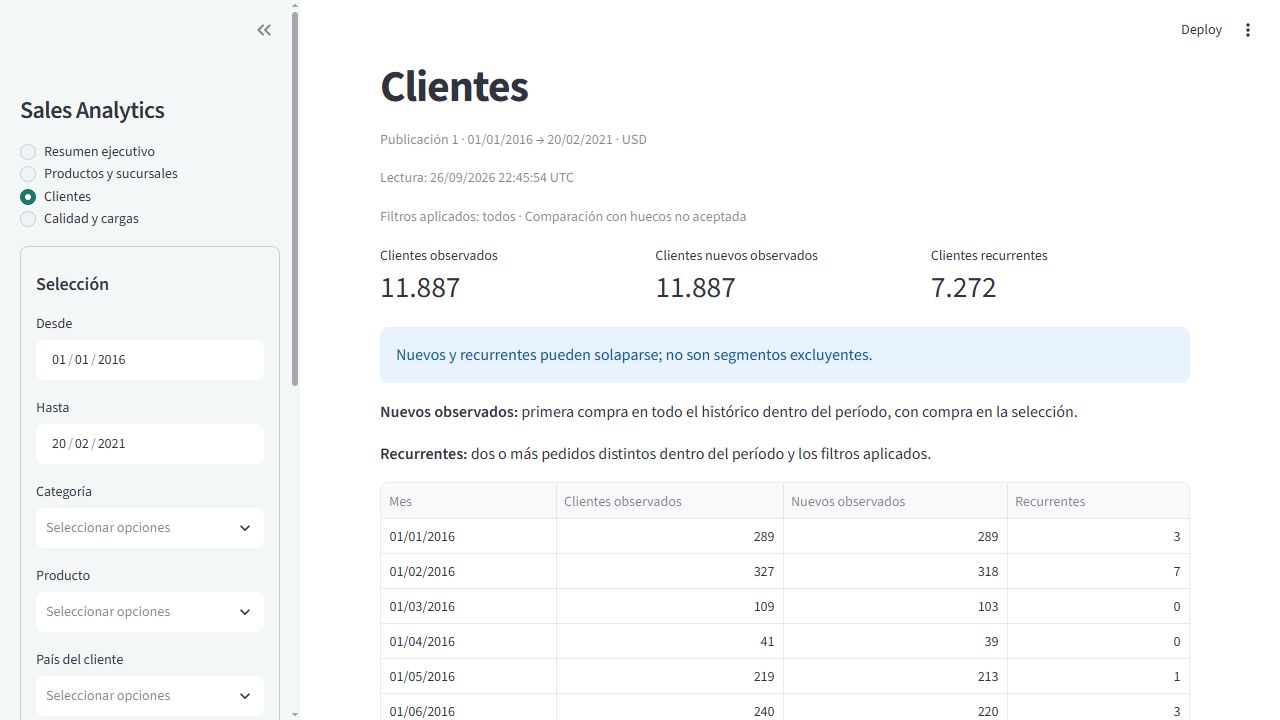
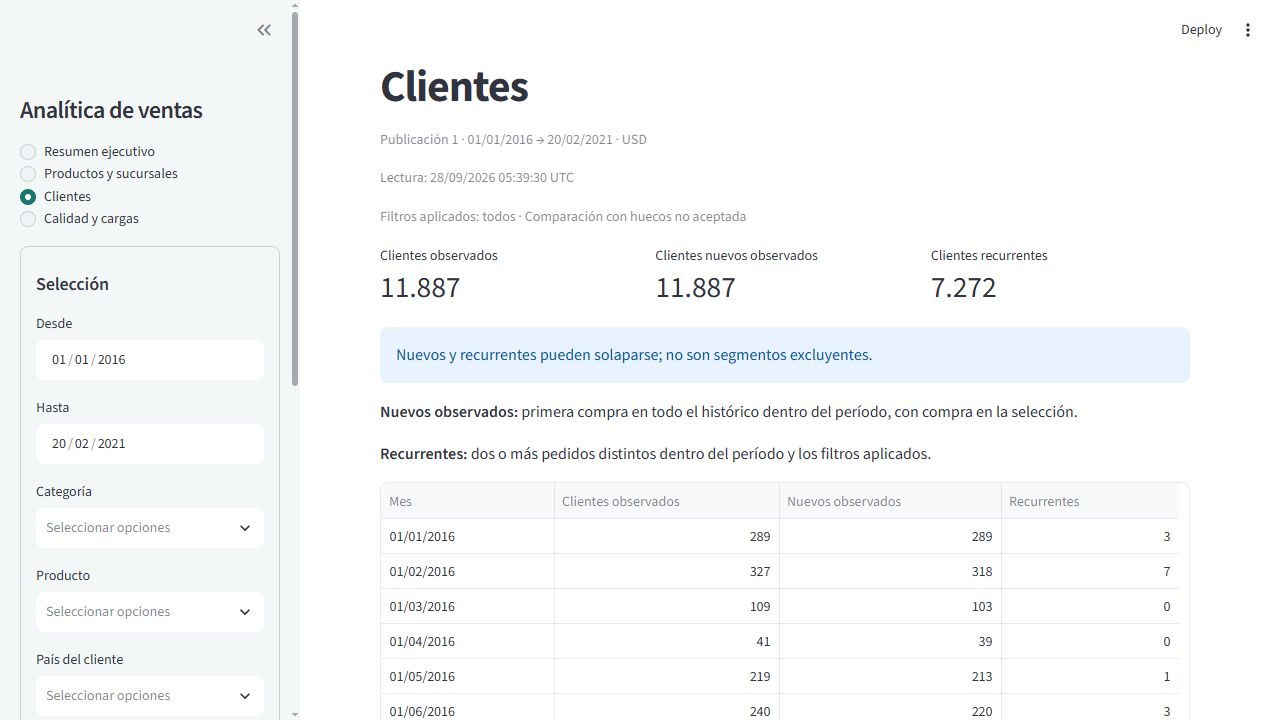
docs: presentar la plataforma y el panel en español

diff --git a/src/sales_analytics/dashboard.py b/src/sales_analytics/dashboard.py
@@ -281,7 +281,7 @@ def quality(bundle: dict) -> None:
 
 
 def main() -> None:
-    st.set_page_config(page_title="Sales Analytics", page_icon=None, layout="wide")
+    st.set_page_config(page_title="Analítica de ventas", page_icon=None, layout="wide")
     st.html("""<style>
         .stMainBlockContainer {max-width: 1260px; padding-top: 2.5rem;}
         h1 {letter-spacing: -.025em;} h2 {margin-top: 1rem;}
@@ -290,7 +290,7 @@ def main() -> None:
         [data-testid="stSidebar"] {background: #f4f7f7;}
         ::selection {background: #bde7df; color: #173b38;}
         </style>""")
-    st.sidebar.title("Sales Analytics")
+    st.sidebar.title("Analítica de ventas")
     page = st.sidebar.radio("Análisis", PAGES, label_visibility="collapsed")
     selected = {key: st.session_state.get(key) or None for key in FILTER_LABELS}
     try:

diff --git a/tests/ui/test_dashboard.py b/tests/ui/test_dashboard.py
@@ -158,6 +158,7 @@ def test_failed_refresh_keeps_old_labels(app, monkeypatch):
 
 
 def test_spanish_controls_and_dates_preserve_timestamp(app, bundle):
+    assert app.sidebar.title[0].value == "Analítica de ventas"
     assert all(w.proto.placeholder == "Seleccionar opciones" for w in app.multiselect)
     assert all(w.proto.format == "DD/MM/YYYY" for w in app.date_input)
     assert any("25/09/2026 00:00:00 UTC" in v.value for v in app.caption)

diff --git a/README.md b/README.md
@@ -1,4 +1,4 @@
-# Plataforma Analitica de Ventas
+# Plataforma Analítica de Ventas
 
 Plataforma local para convertir archivos de ventas de un comercio de electrónica en indicadores reproducibles. Conserva el origen, distingue rechazos de advertencias y permite consultar una publicación consistente desde Streamlit, incluso mientras otro proceso publica datos.
 
@@ -54,7 +54,7 @@ Snapshot de referencia, sin convertir sus cifras en restricciones de futuros lot
 ## Estructura
 
 ```text
-sales-analytics-platform/
+plataforma-analitica-de-ventas/
 ├── AGENTS.md
 ├── README.md
 ├── pyproject.toml                 # única declaración editable de dependencias

diff --git a/docs/data_model.md b/docs/data_model.md
@@ -1,4 +1,4 @@
-# Modelo de datos — Sales Analytics Platform
+# Modelo de datos — Plataforma Analítica de Ventas
 
 **Estado: diseño documental aprobado; implementación no autorizada.** D1–D6 y el contrato de lectura fueron aprobados por el usuario.
 Base: [perfil comprobado](data_profile.md), [diccionario](data_dictionary.md) y [reglas aprobadas](business_rules.md). Los dos primeros se conservan como evidencia de la revisión inicial: sus menciones de aprobación pendiente quedan resueltas por las decisiones vigentes de business_rules.md.

diff --git a/docs/business_rules.md b/docs/business_rules.md
@@ -1,4 +1,4 @@
-# Reglas de negocio y calidad — Sales Analytics Platform
+# Reglas de negocio y calidad — Plataforma Analítica de Ventas
 
 **Estado: diseño documental aprobado; implementación no autorizada.** D1–D6, alcance del MVP y contrato de lectura aprobados por el usuario.
 Evidencia: [data_profile.md](data_profile.md). Campos de origen: [data_dictionary.md](data_dictionary.md). Estructura: [data_model.md](data_model.md). Operación y lectura: [architecture.md](architecture.md).

diff --git a/docs/implementation_plan.md b/docs/implementation_plan.md
@@ -1,4 +1,4 @@
-# Plan de implementación incremental — Sales Analytics Platform
+# Plan de implementación incremental — Plataforma Analítica de Ventas
 
 **Estado: E1–E9 implementadas y verificadas dentro del alcance local autorizado.** El [README](../README.md) reúne la operación actual y el [portafolio](portfolio.md) registra la evidencia final. Las listas de aceptación que siguen conservan el plan aprobado; los resultados se identifican expresamente.
 

diff --git a/docs/data_dictionary.md b/docs/data_dictionary.md
@@ -1,4 +1,4 @@
-# Diccionario de datos — Sales Analytics Platform
+# Diccionario de datos — Plataforma Analítica de Ventas
 
 Estado: significado del origen verificado; tipos de destino y transformaciones propuestos.
 Fuente principal: [Data_Dictionary.csv](../Data/Data_Dictionary.csv), leído antes de interpretar las columnas. Perfil de referencia: [data_profile.md](data_profile.md).

diff --git a/docs/data_profile.md b/docs/data_profile.md
@@ -1,4 +1,4 @@
-# Perfil del dataset — Sales Analytics Platform
+# Perfil del dataset — Plataforma Analítica de Ventas
 
 Estado: análisis de los archivos locales; las políticas propuestas requieren aprobación.
 Fecha de revisión: 2026-09-17.

diff --git a/docs/architecture.md b/docs/architecture.md
@@ -1,4 +1,4 @@
-# Arquitectura — Sales Analytics Platform
+# Arquitectura — Plataforma Analítica de Ventas
 
 **Estado: diseño documental aprobado. No autoriza implementación.**
 

diff --git a/docs/portfolio.md b/docs/portfolio.md
@@ -1,4 +1,4 @@
-# Sales Analytics Platform — portafolio técnico
+# Plataforma Analítica de Ventas — portafolio técnico
 
 ## Contexto y problema
 

diff --git a/AGENTS.md b/AGENTS.md
@@ -1,4 +1,4 @@
-# AGENTS.md — Sales Analytics Platform
+# AGENTS.md — Plataforma Analítica de Ventas
 
 ## 1. Objetivo del proyecto
 
